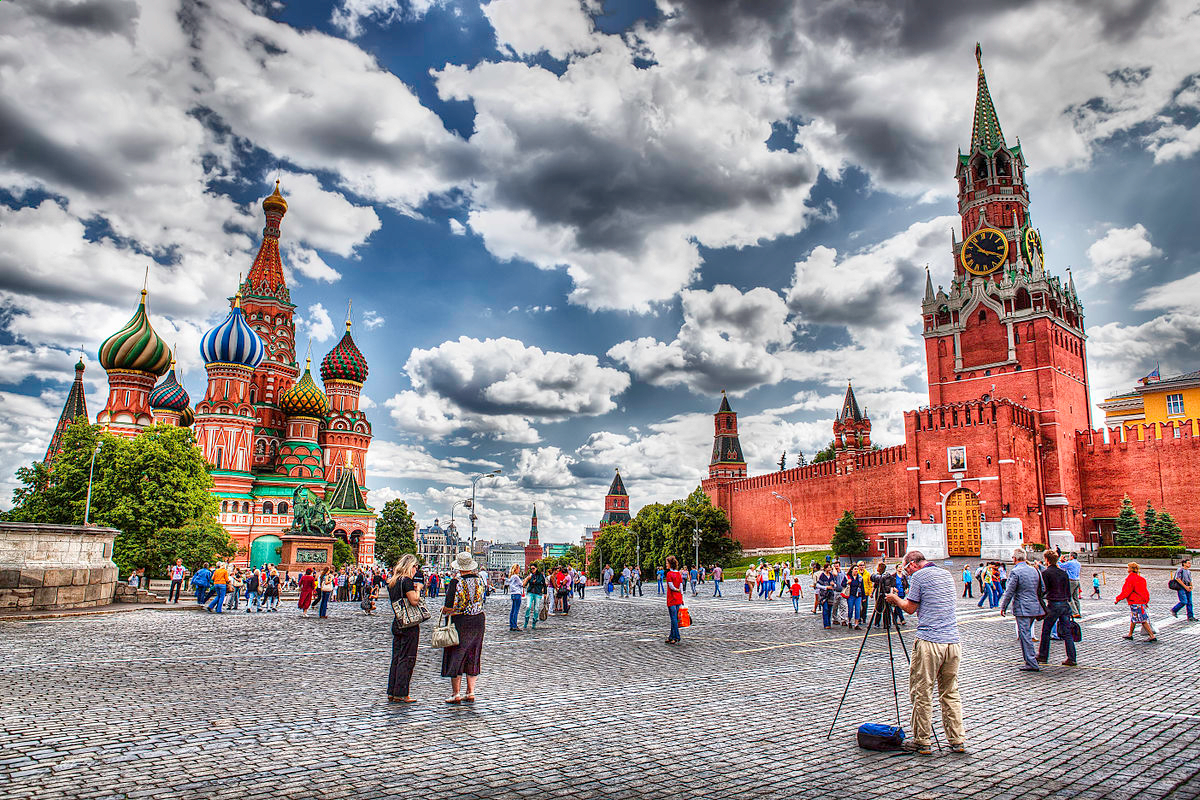
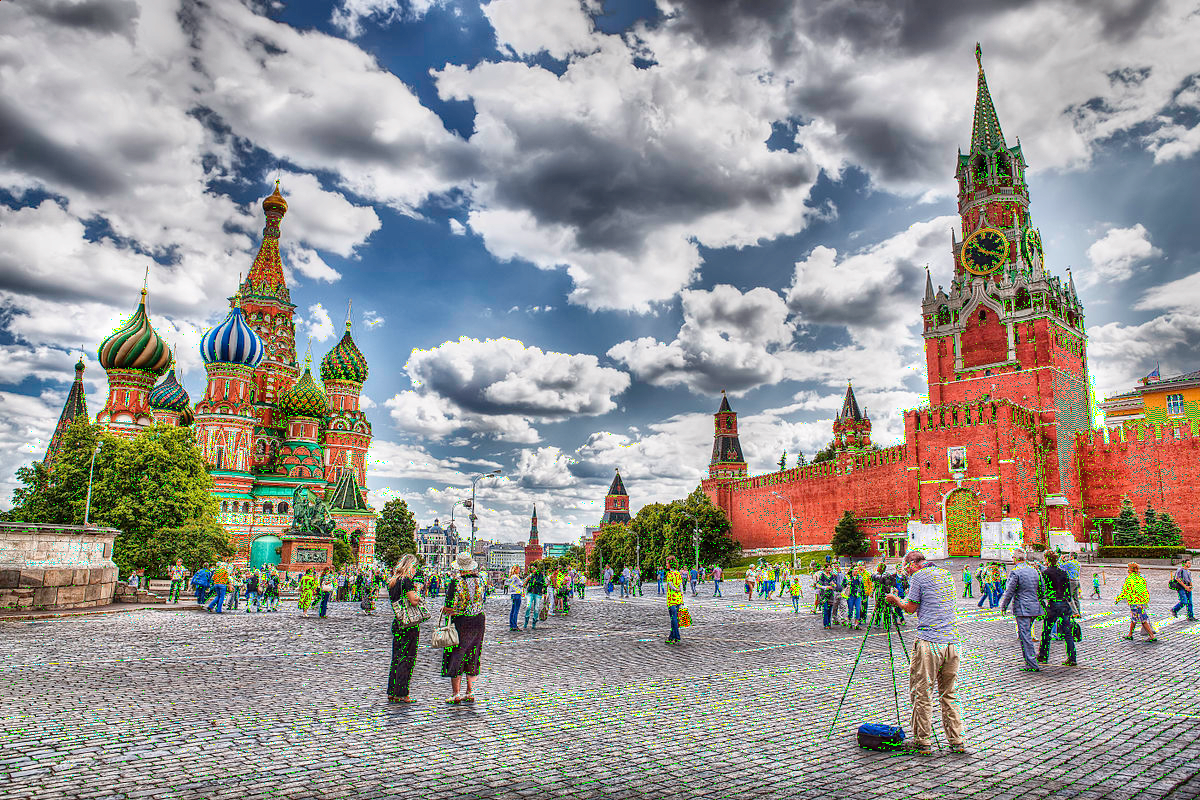
alternation des rotation func2

diff --git a/Encoding.py b/Encoding.py
@@ -137,11 +137,18 @@ class Encoding:
                             else :
                                 temp_list[x]=0
                     for x in range(3):
-                        if parity[x-1]==1:
-                            if temp_list[x]!=0:
-                                temp_list[x]+=-1
-                            else:
-                                temp_list[x]=255
+                        if (i+j)%2==1:
+                            if parity[x-1]==1:
+                                if temp_list[x]!=0:
+                                    temp_list[x]+=-1
+                                else:
+                                    temp_list[x]=255
+                        else:
+                            if parity[x-2]==1:
+                                if temp_list[x]!=0:
+                                    temp_list[x]+=-1
+                                else:
+                                    temp_list[x]=255
                     self.pixels.values[i,j] = tuple(temp_list)
                     
 
@@ -275,10 +282,15 @@ if __name__ == '__main__':
     test_1.func_2_enc(0)
     for i in range(test_1.pixels.lenght):
         for j in range(test_1.pixels.height):
-            assert test_1.pixels.values[i,j][0]%2==vvalues[i][j][2]%2
-            assert test_1.pixels.values[i,j][1]%2==vvalues[i][j][0]%2
-            assert test_1.pixels.values[i,j][2]%2==vvalues[i][j][1]%2
-    
+            if (i+j)%2==1:
+                assert test_1.pixels.values[i,j][0]%2==vvalues[i][j][2]%2
+                assert test_1.pixels.values[i,j][1]%2==vvalues[i][j][0]%2
+                assert test_1.pixels.values[i,j][2]%2==vvalues[i][j][1]%2
+            else:
+                assert test_1.pixels.values[i,j][0]%2==vvalues[i][j][1]%2
+                assert test_1.pixels.values[i,j][1]%2==vvalues[i][j][2]%2
+                assert test_1.pixels.values[i,j][2]%2==vvalues[i][j][0]%2
+        
 
     print("func_2_enc marche")
 

diff --git a/Decoding.py b/Decoding.py
@@ -117,11 +117,19 @@ def func_2_dec(im:Pixels,x:int):
                                 else :
                                     temp_list[color]=0
                         for color in range(3):
-                            if parity[color-2]==1:
-                                if temp_list[color]!=0:
-                                    temp_list[color]+=-1
-                                else:
-                                    temp_list[color]=255
+                            if (i+j)%2==1:
+                                if parity[color-2]==1:
+                                    if temp_list[color]!=0:
+                                        temp_list[color]+=-1
+                                    else:
+                                        temp_list[color]=255
+                            else:
+                                if parity[color-1]==1:
+                                    if temp_list[color]!=0:
+                                        temp_list[color]+=-1
+                                    else:
+                                        temp_list[color]=255
+
                         im.values[i,j] = tuple(temp_list)
 
 
